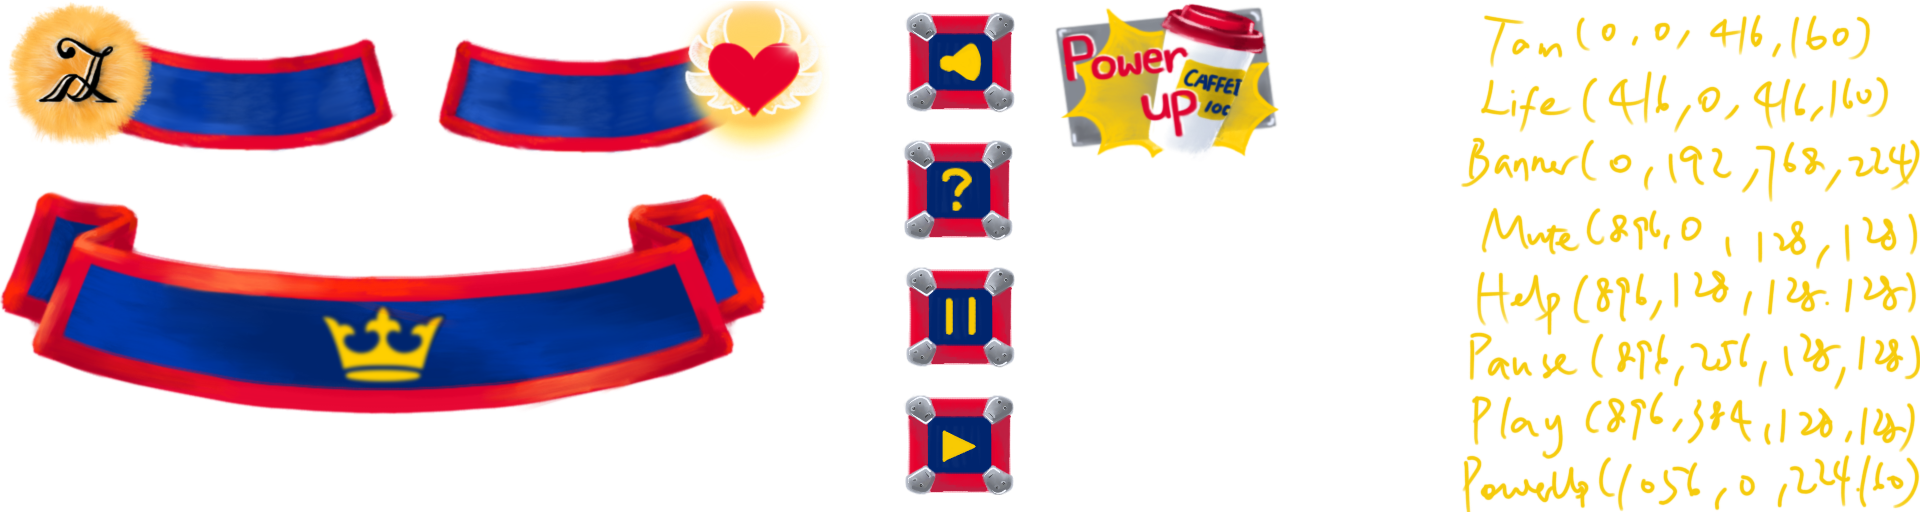
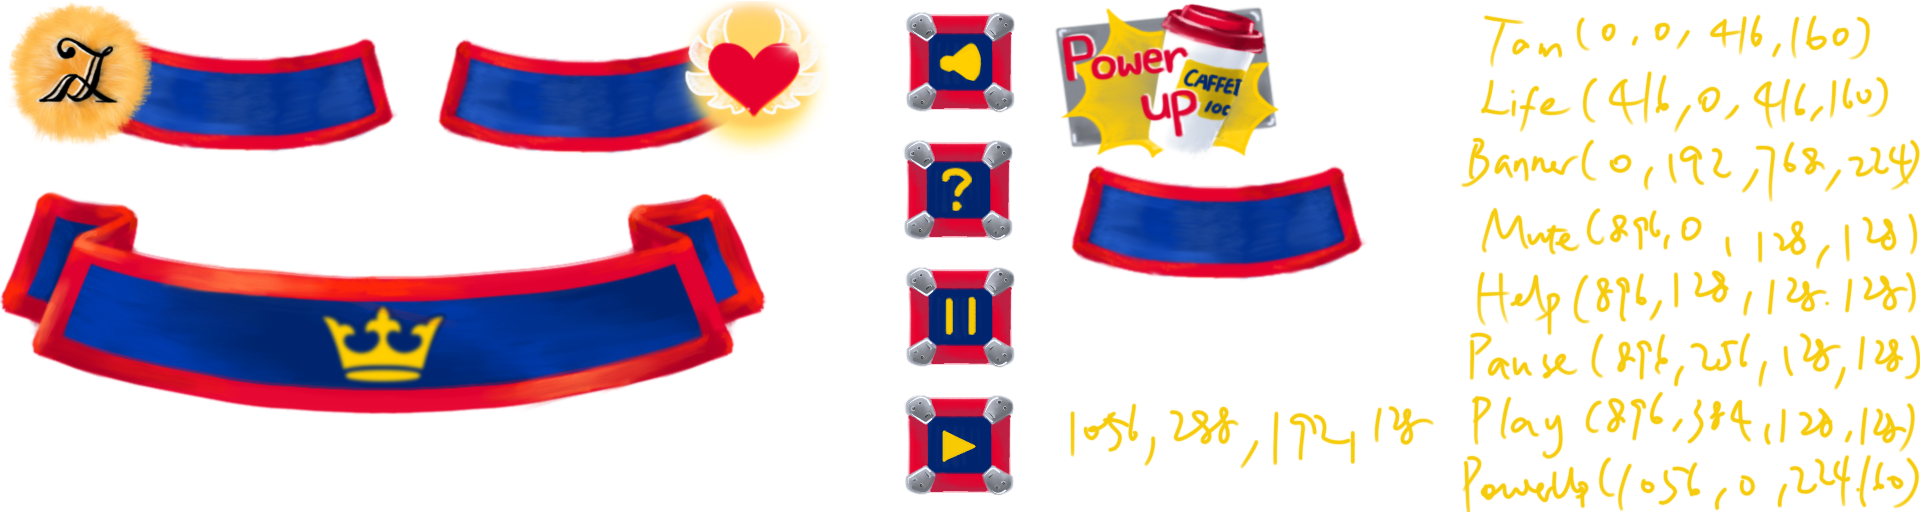
Added Flavour Text to Frec Buttons
Hovering over frecs gives price, damage and cooldown info.  Info changed in instantition of frec buttons in GameMenuController.cpp, x and y of entire label adjustable by changing inital values of local variables baseX and baseY in FrecButton.cpp!
TBR-250

Changed region(s): [[0.5312, 0.3125, 0.7188, 0.5625], [0.5625, 0.7812, 0.75, 0.9062]]

diff --git a/FrecButton.cpp b/FrecButton.cpp
@@ -14,28 +14,51 @@
 using std::cout;
 using std::endl;
 
+
 sf::Font font;
 
 const bool _debug = true;
 
 FrecButton::FrecButton(sf::Vector2f _position, int _radius,
-		sf::Texture* _texture, std::string inText, FrecType _type,
+		sf::Texture* _texture, std::string inText, std::string inText2, FrecType _type,
 		GameState* _gameState) :
 		frecType(_type), gameState(_gameState) {
 	if (!font.loadFromFile("assets/georgia.ttf")) {
 	}
+	sf::Texture* _menuTexture = new sf::Texture;
+	if (!_menuTexture->loadFromFile("assets/menuButtons.png")) {
+		std::cerr << "The texture does not exist" << std::endl;
+	}
+
+
 	graphic = sf::CircleShape(_radius);
 	setPosition(_position);
 	setSize(sf::Vector2f(_radius * 2, _radius * 2));
 	graphic.setTexture(_texture);
 	graphic.setFillColor(sf::Color(255, 255, 255, 180)); // half transparent
 	graphic.setOutlineColor(sf::Color(210, 16, 52)); // Tri-red
+
 	displayText = false;
+	// Text for Price (large)
 	frecButtonText = sf::Text();
 	frecButtonText.setString(inText);
-
-	frecButtonText.setCharacterSize(50);
-	frecButtonText.setPosition(0, 00);
+	frecButtonText.setCharacterSize(40);
+	// Text for Damage & Rate (small)
+	frecButtonText2 = sf::Text();
+	frecButtonText2.setString(inText2);
+	frecButtonText2.setCharacterSize(20);
+	// Background for text
+	frecTextBack = sf::RectangleShape(sf::Vector2f(320, 128));
+	frecTextBack.setTexture(_menuTexture);
+	frecTextBack.setTextureRect(sf::IntRect(1056, 165, 320, 128));
+	// Position by Frec
+	int baseY=-15, baseX = 1500;
+	if(_type == FrecType::thrower){ 		baseY += 275;	}
+	else if(_type == FrecType::slammer){ 	baseY += 515;	}
+	else if(_type == FrecType::swinger){ 	baseY += 755; 	}
+	frecButtonText.setPosition(	baseX + 70, baseY+ 35);
+	frecButtonText2.setPosition(baseX + 150, baseY + 40);
+	frecTextBack.setPosition(	baseX, baseY);
 
 	update();
 }
@@ -51,11 +74,15 @@ void FrecButton::update() {
 	graphic.setPosition(getPosition());
 }
 void FrecButton::render(sf::RenderWindow& _window) {
-
 	frecButtonText.setFont(font);
+	frecButtonText2.setFont(font);
 	_window.draw(graphic);
-	if (displayText)
+	if (displayText){
+		_window.draw(frecTextBack);
 		_window.draw(frecButtonText);
+		_window.draw(frecButtonText2);
+	}
+
 }
 
 void FrecButton::onClick() {

diff --git a/GameMenuController.cpp b/GameMenuController.cpp
@@ -59,19 +59,19 @@ GameMenuController::GameMenuController(sf::RenderWindow* windowPointer,
 	std::cerr << menuPos.x << ", " << menuPos.y << std::endl;
 	FrecButton* _clickable;
 	_clickable = new FrecButton(menuPosition(1.4, 2.2), frecButtonCubits,
-			_texture, "Price: 30T, Damage: 1, Cooldown: 1s", FrecType::slammer,
+			_texture, "20T","Damage: 1\nRate: 1s", FrecType::thrower,
 			gameState);
 	_clickable->setTextureRect(sf::IntRect(512 * 0, 0, 512, 512));
 	clickVec.push_back(_clickable);
 
 	_clickable = new FrecButton(menuPosition(1.4, 6.2), frecButtonCubits,
-			_texture, "Price: 30T, Damage: 1, Cooldown: 1s", FrecType::swinger,
+			_texture, "30T","Damage: 2\nRate: 2s", FrecType::slammer,
 			gameState);
 	_clickable->setTextureRect(sf::IntRect(512 * 1, 0, 512, 512));
 	clickVec.push_back(_clickable);
 
 	_clickable = new FrecButton(menuPosition(1.4, 10.2), frecButtonCubits,
-			_texture, "Price: 30T, Damage: 1, Cooldown: 1s", FrecType::thrower,
+			_texture, "40T","Damage: 3\nRate: 2s", FrecType::swinger,
 			gameState);
 	_clickable->setTextureRect(sf::IntRect(512 * 2, 0, 512, 512));
 	clickVec.push_back(_clickable);

diff --git a/FrecButton.h b/FrecButton.h
@@ -14,7 +14,7 @@
 class FrecButton: public Clickable {
 public:
 	FrecButton(sf::Vector2f _position, int _radius, sf::Texture* _texture,
-			std::string inText, FrecType _type, GameState* _gameState);
+			std::string inText, std::string in, FrecType _type, GameState* _gameState);
 	void setTextureRect(const sf::IntRect& rect);
 	virtual ~FrecButton();
 
@@ -34,6 +34,8 @@ private:
 	sf::CircleShape graphic;
 	bool displayText;
 	sf::Text frecButtonText;
+	sf::Text frecButtonText2;
+	sf::RectangleShape frecTextBack;
 };
 
 #endif /* FRECBUTTON_H_ */

diff --git a/GameController.cpp b/GameController.cpp
@@ -233,8 +233,8 @@ void GameBoard::renderHover(int mouseX, int mouseY, int range) {
 		backSquares = floor(range / 2);
 
 	hoverOutline.setRadius(range * 60 / 2);
-	hoverOutline.setPosition((gridX - backSquares + 1) * 60,
-			(gridY - backSquares + 1) * 60);
+	hoverOutline.setPosition((gridX - backSquares + 0.5) * 60,
+			(gridY - backSquares + 0.5) * 60);
 	window->draw(hoverOutline);
 }
 
